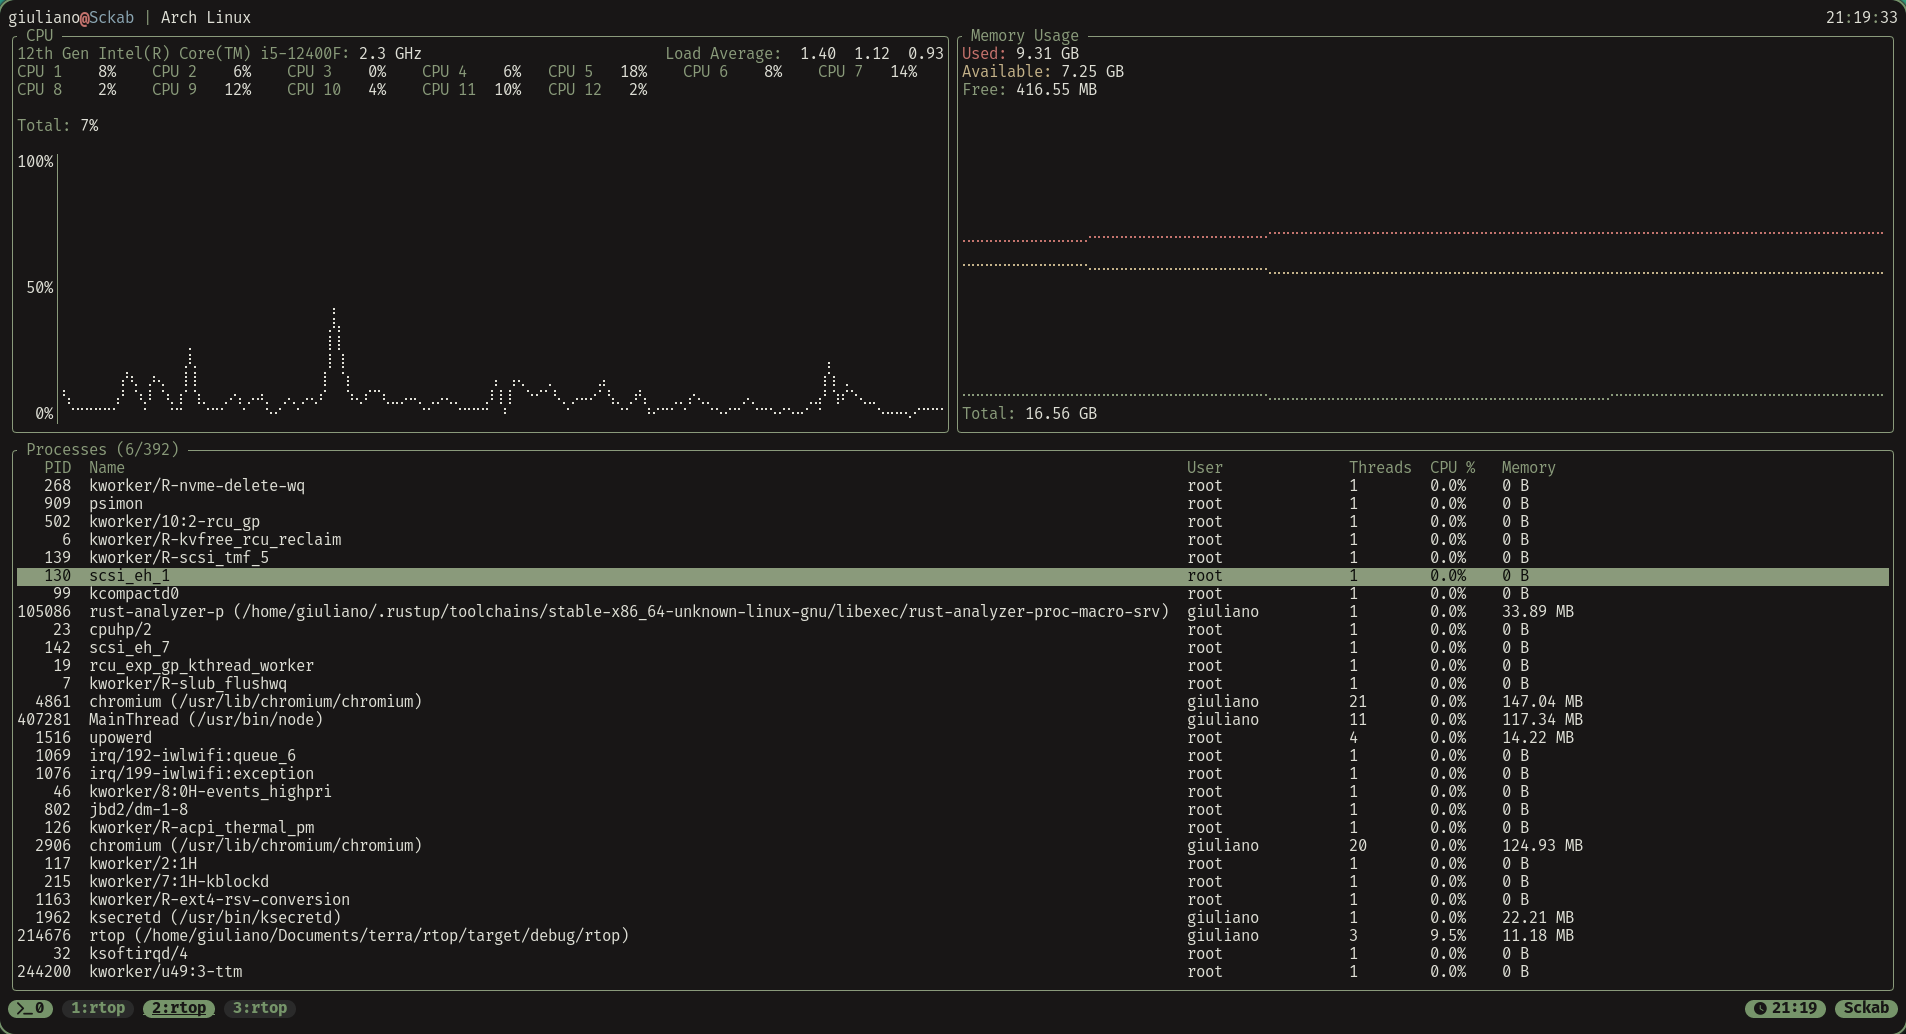
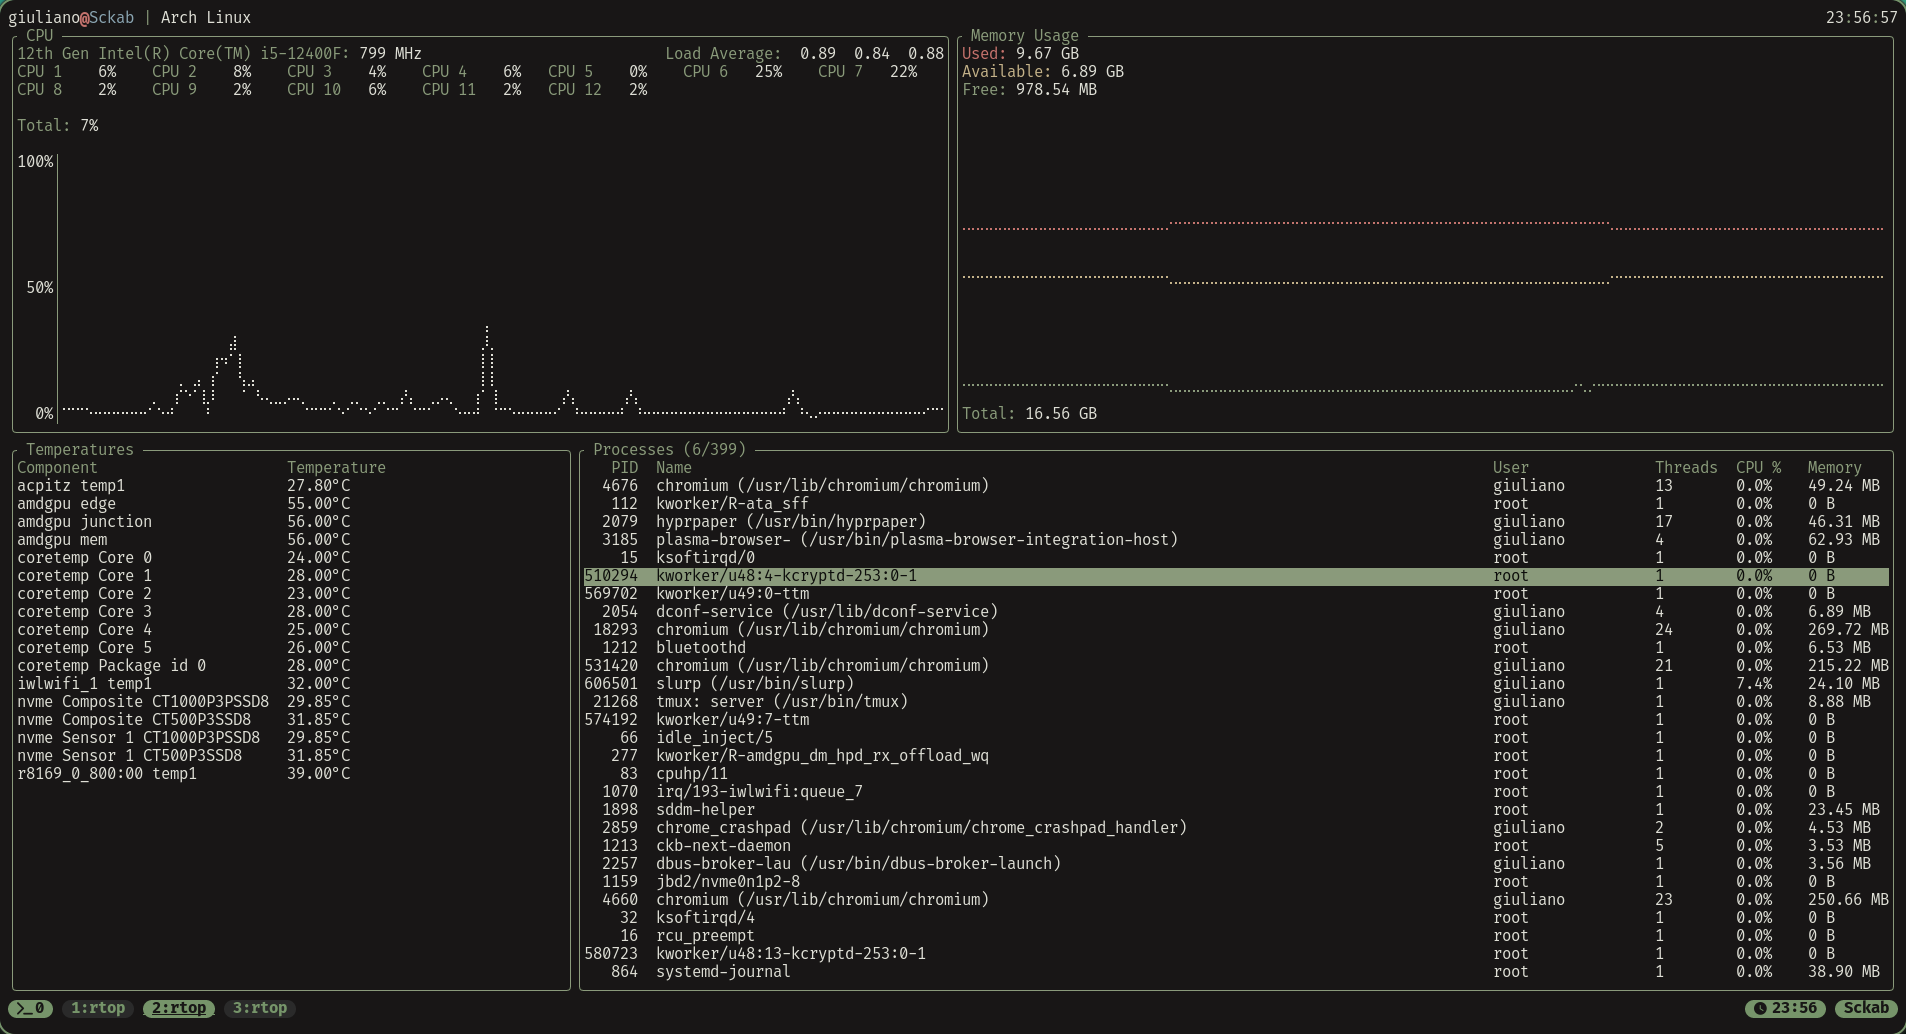
update the showcase image

diff --git a/src/tui/temperatures.rs b/src/tui/temperatures.rs
@@ -22,7 +22,7 @@ impl crate::app::App {
                 maximum_width = maximum_width.max(t.sensor.len());
 
                 let temperature = match t.temperature {
-                    Some(temp) => format!("{temp:.2}C°"),
+                    Some(temp) => format!("{temp:.2}°C"),
                     None => "Unknown".to_string(),
                 };
 
